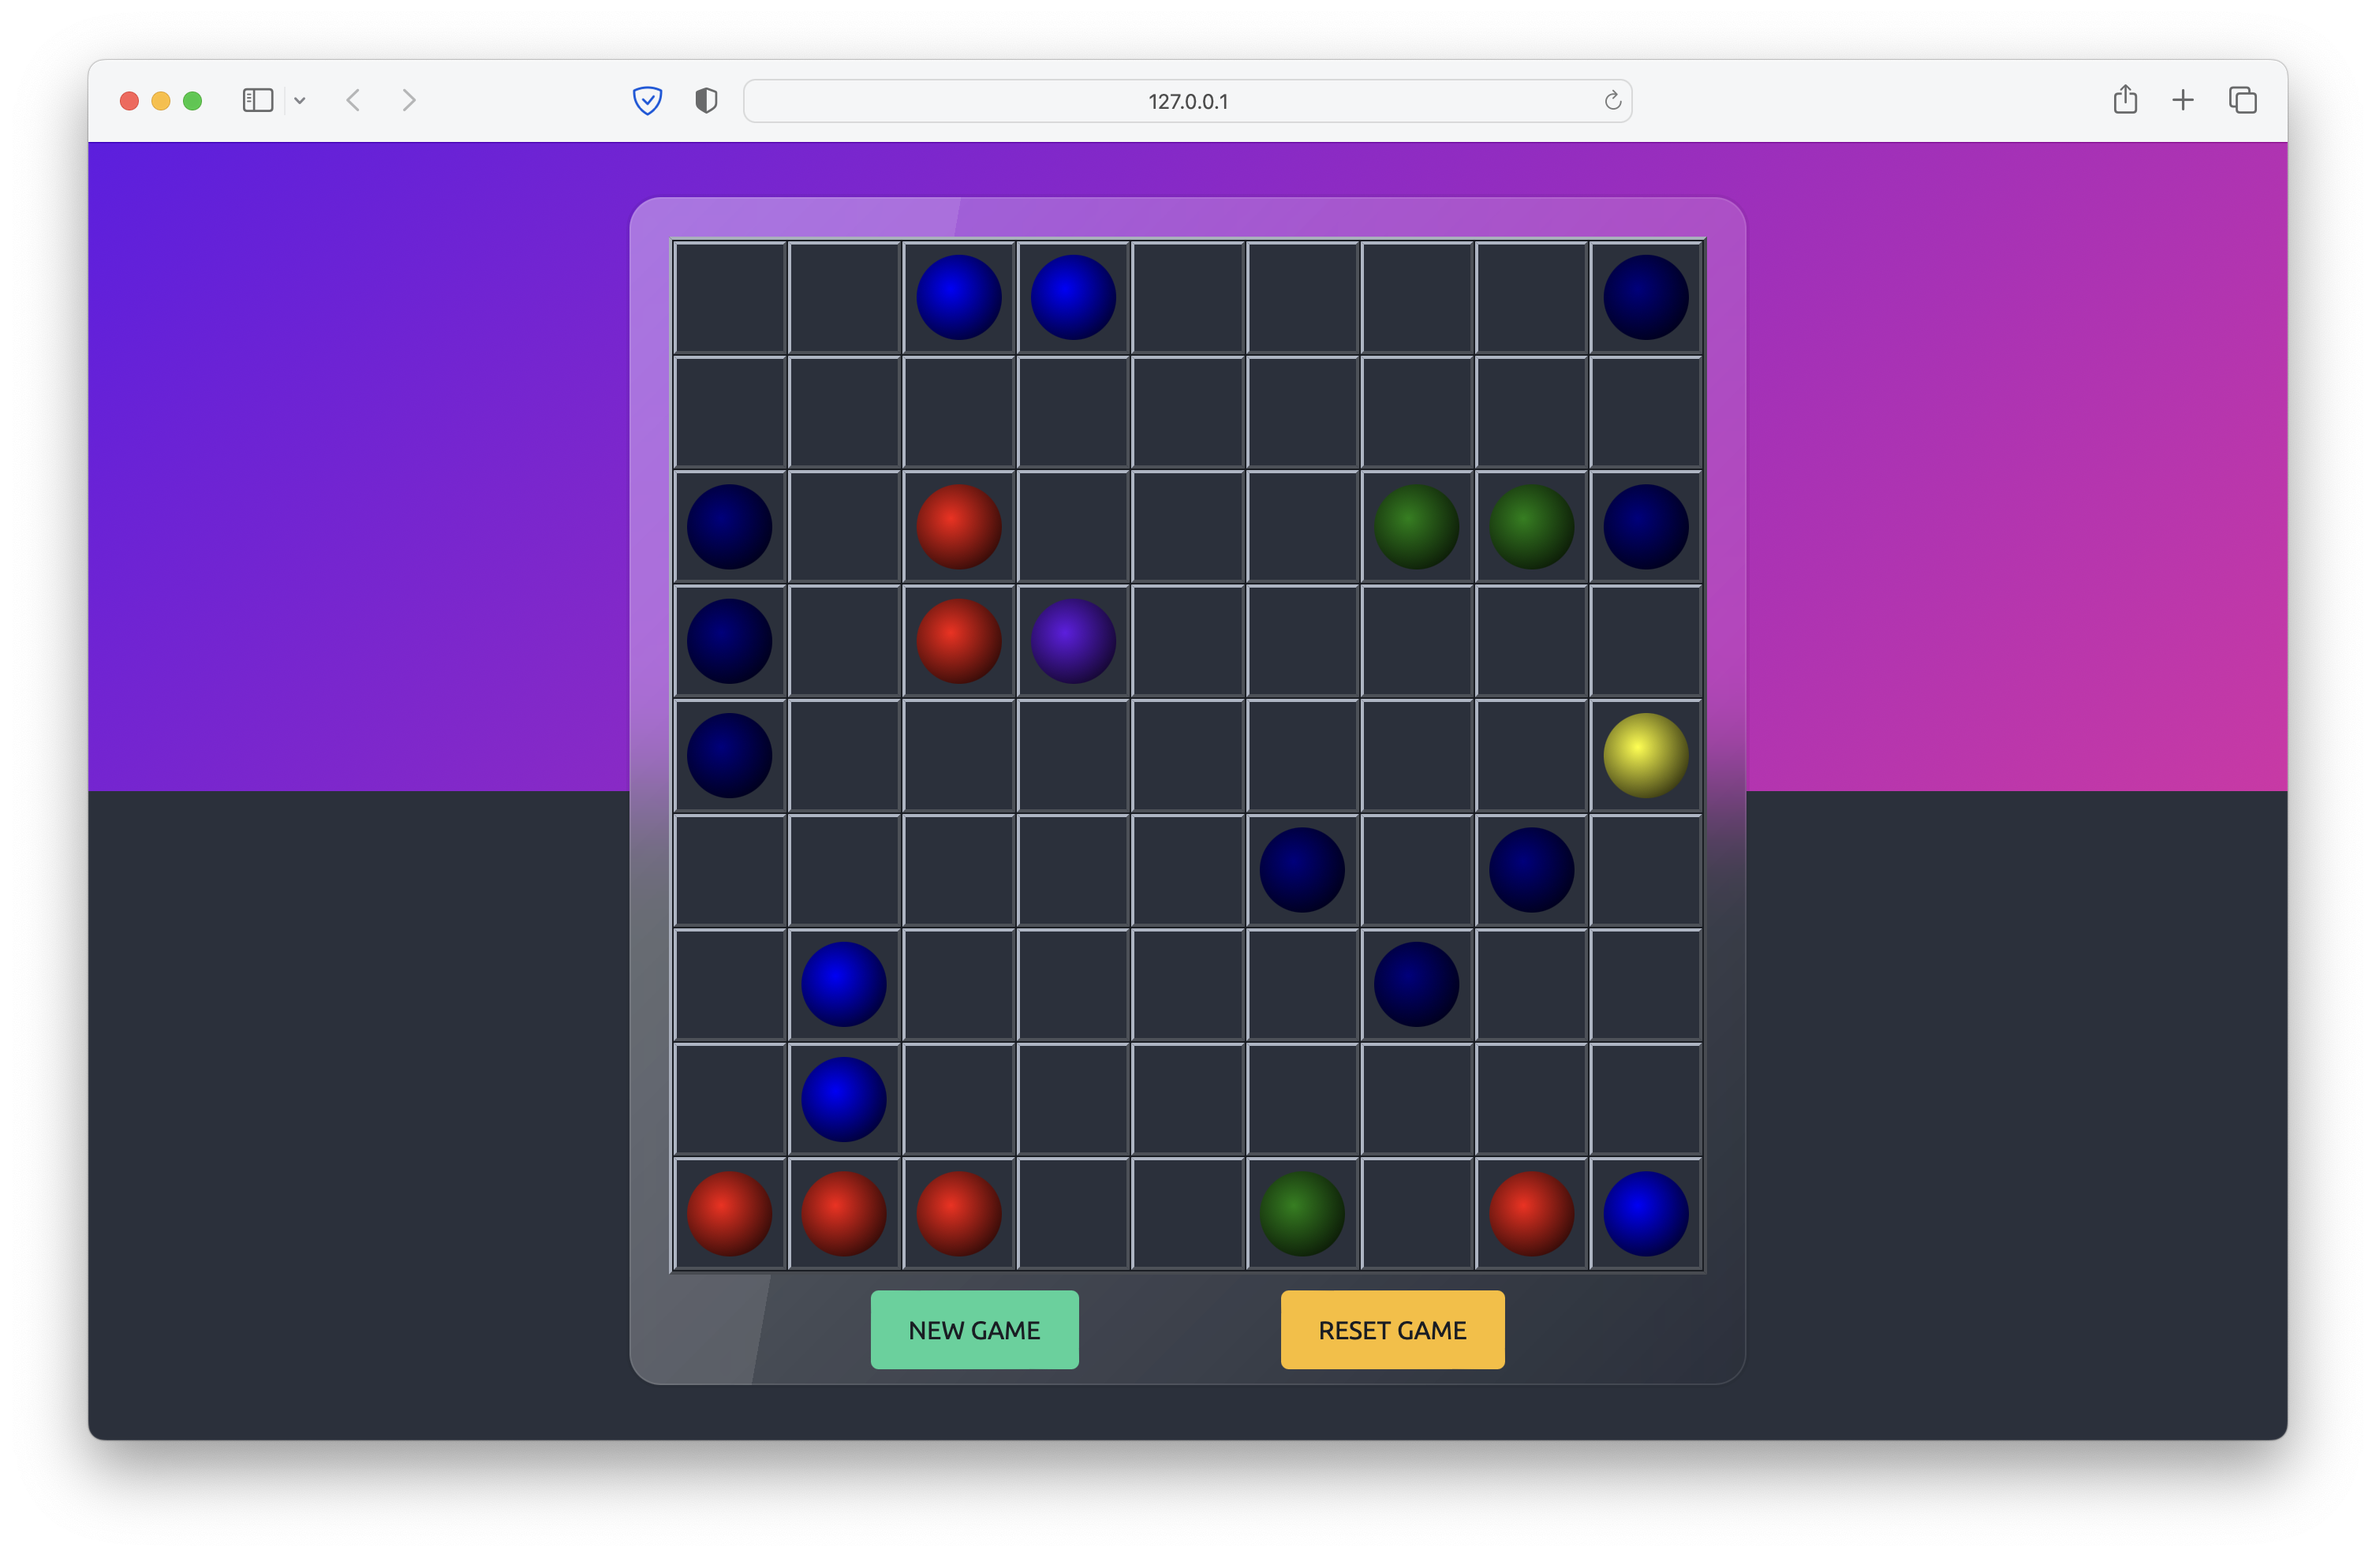
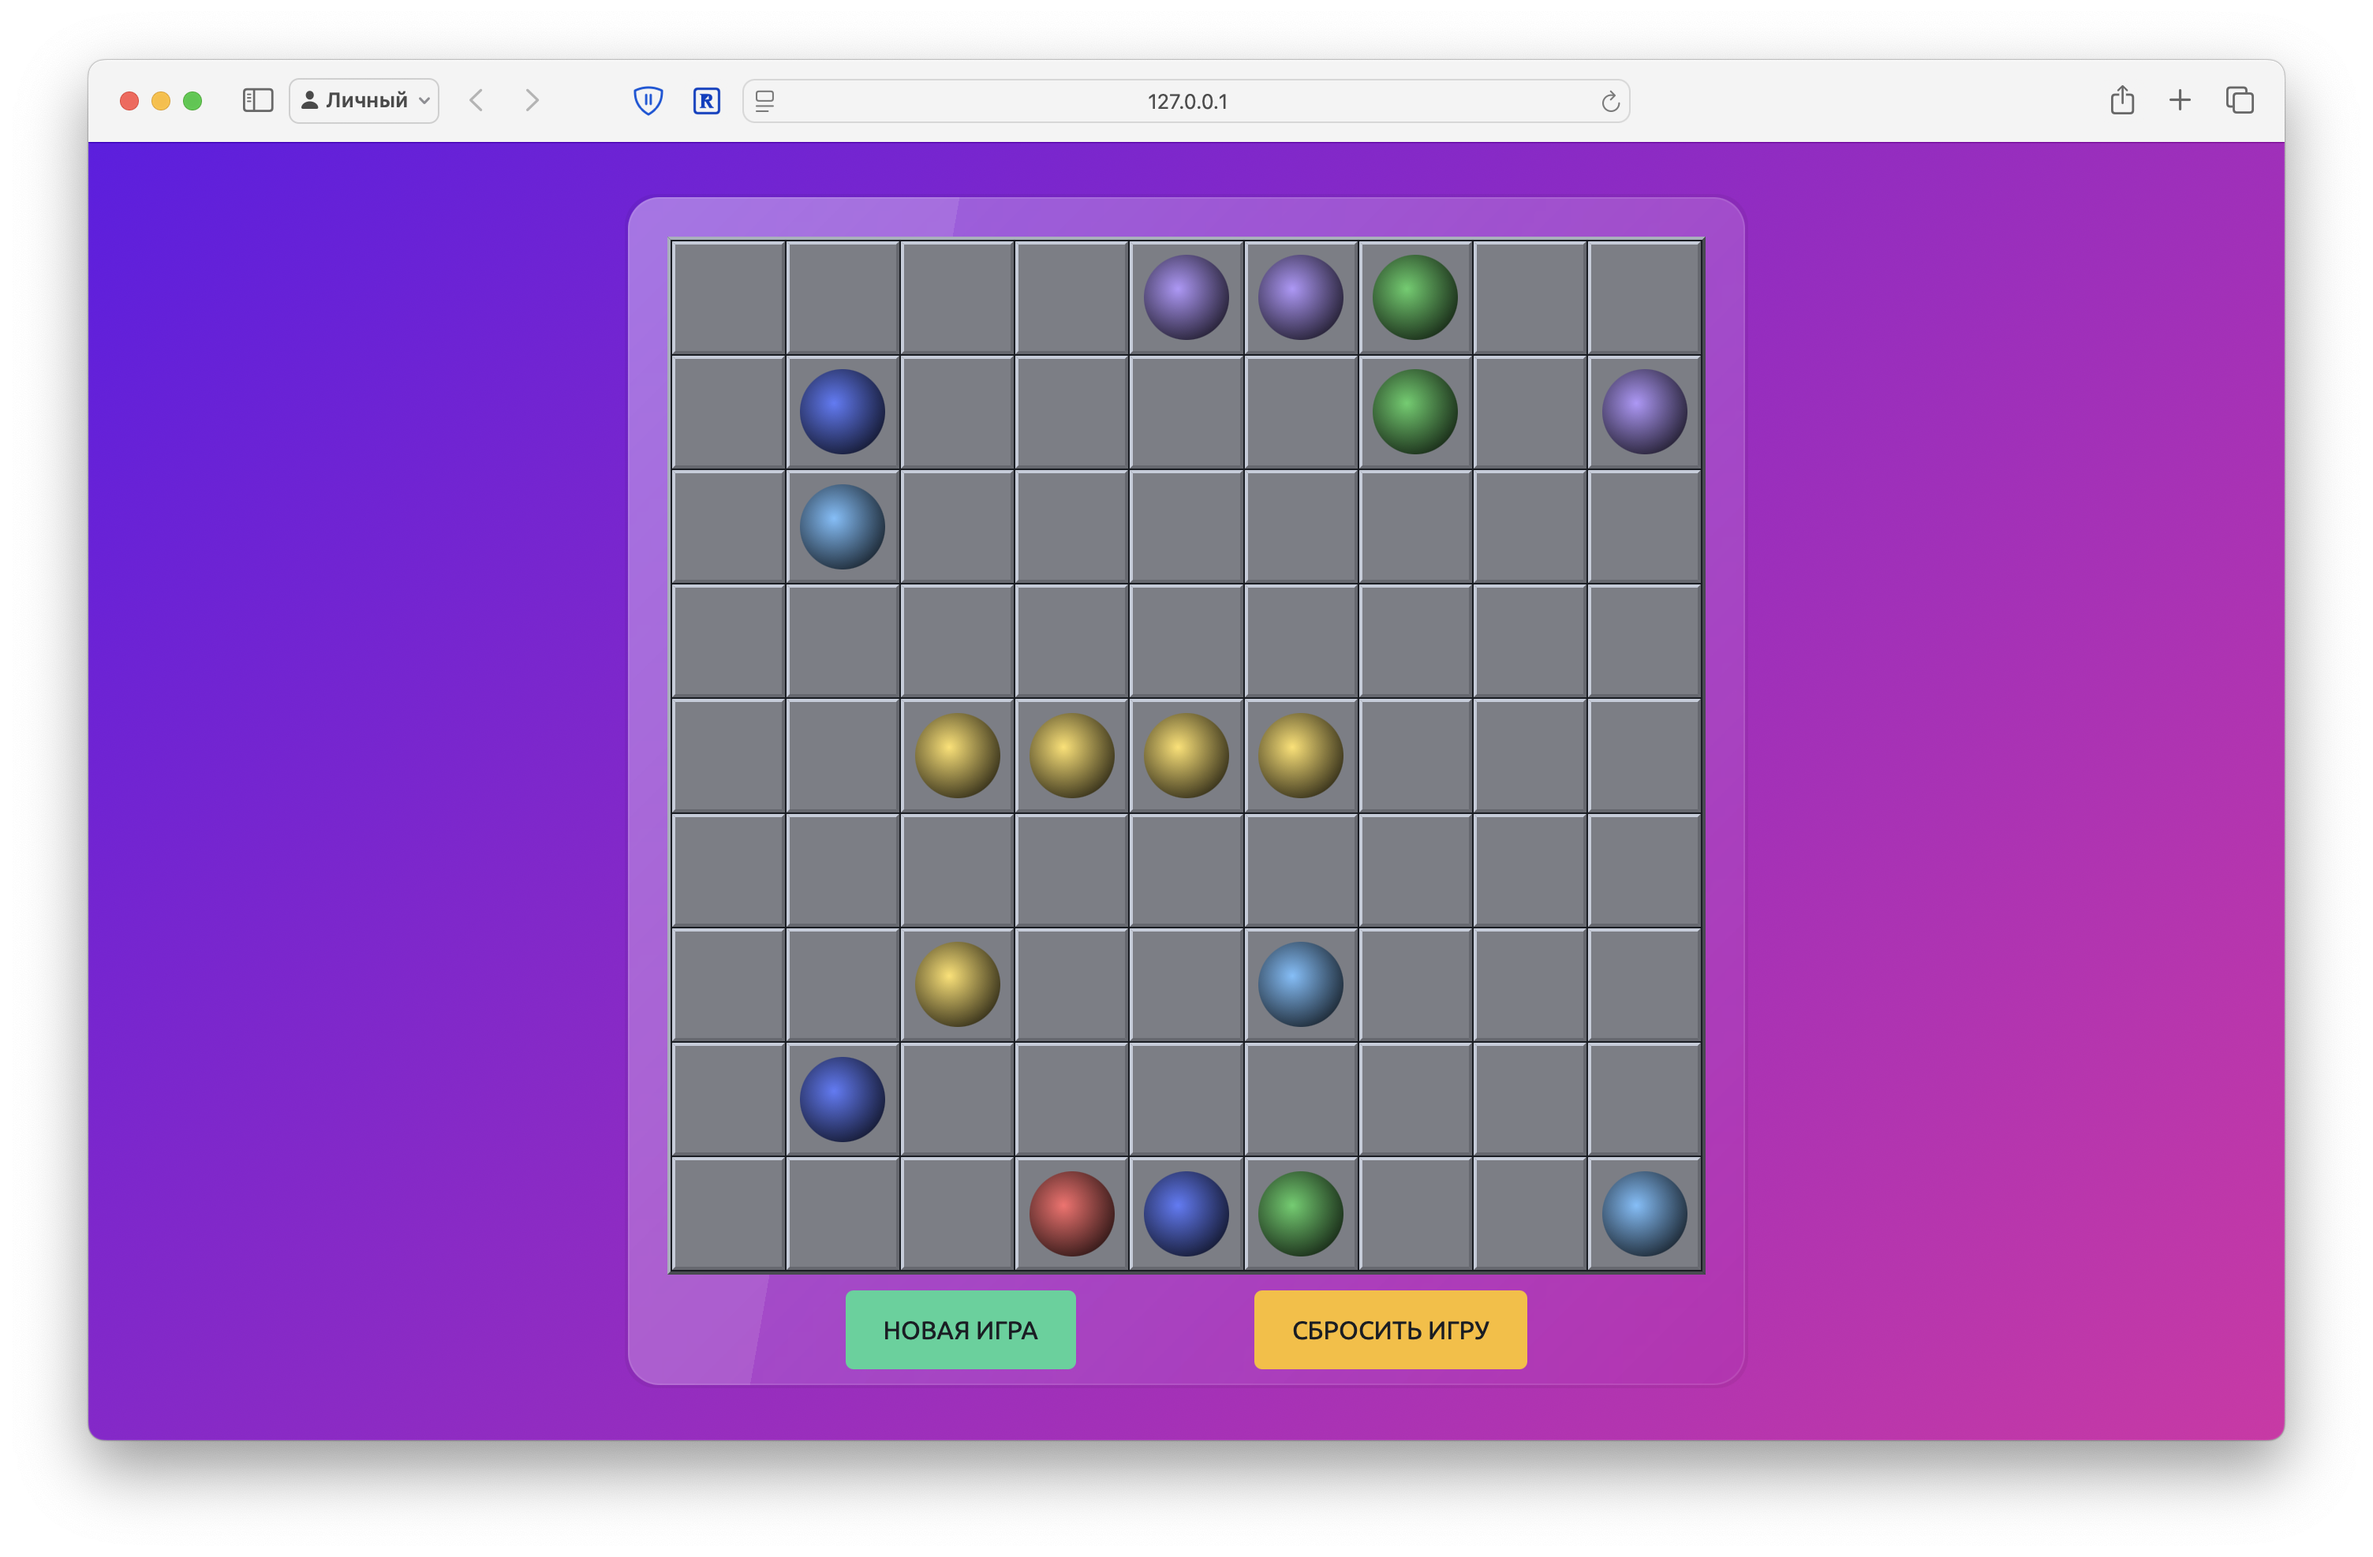
feat: улучшение визуального оформления игры
- Обновлены цвета фона, клеток и шариков для улучшения контрастности.
- Удалена устаревшая информация из README.md.
- Заменён скриншот на актуальный.

diff --git a/styles.css b/styles.css
@@ -7,13 +7,13 @@
   --field-border-color: hsl(var(--bc) / 0.7);
   --field-background-color: #191d24;
   --cell-border-color: hsl(var(--bc) / 0.7);
-  --cell-background-color: #2a303c;
-  --ball-red-color: red;
-  --ball-yellow-color: yellow;
-  --ball-navy-color: navy;
-  --ball-blue-color: blue;
-  --ball-purple-color: #6419e6;
-  --ball-green-color: green;
+  --cell-background-color: #7b7e86;
+  --ball-red-color: #ff6b6b;
+  --ball-yellow-color: #ffe066;
+  --ball-navy-color: #5c7cfa;
+  --ball-blue-color: #74c0fc;
+  --ball-purple-color: #b197fc;
+  --ball-green-color: #51cf66;
 
   --primary: #6419e6;
   --secondary: #d926a9;
@@ -49,8 +49,7 @@ body {
   top: 0;
   left: 0;
   width: 100%;
-  height: 50vh;
-  min-height: 400px;
+  height: 100vh;
   background: rgb(100, 25, 230);
   background: linear-gradient(135deg, rgba(100, 25, 230, 1) 0%, rgba(217, 38, 169, 1) 100%);
 }

diff --git a/README.md b/README.md
@@ -4,8 +4,6 @@
 
 Одна из основных идей – использовать только CSS для оформления и эффектов, без изображений.
 
-На текущий момент не определяются диагональные линии и не подсчитываются баллы за игру.
-
 ![Screenshot](./images/screenshot.png)
 
 ## Ссылки на использованные при разработке материалы

diff --git a/changelog.md b/changelog.md
@@ -1,3 +1,7 @@
+#### 17.07.2025, Чт
+- Реализован поиск диагональных линий.
+- Изменён фон, цвет клеток и шариков для лучшей контрастности.
+
 #### 15.07.2025, Вт
 - Решил вернуться к проекту и доработать его.
 
